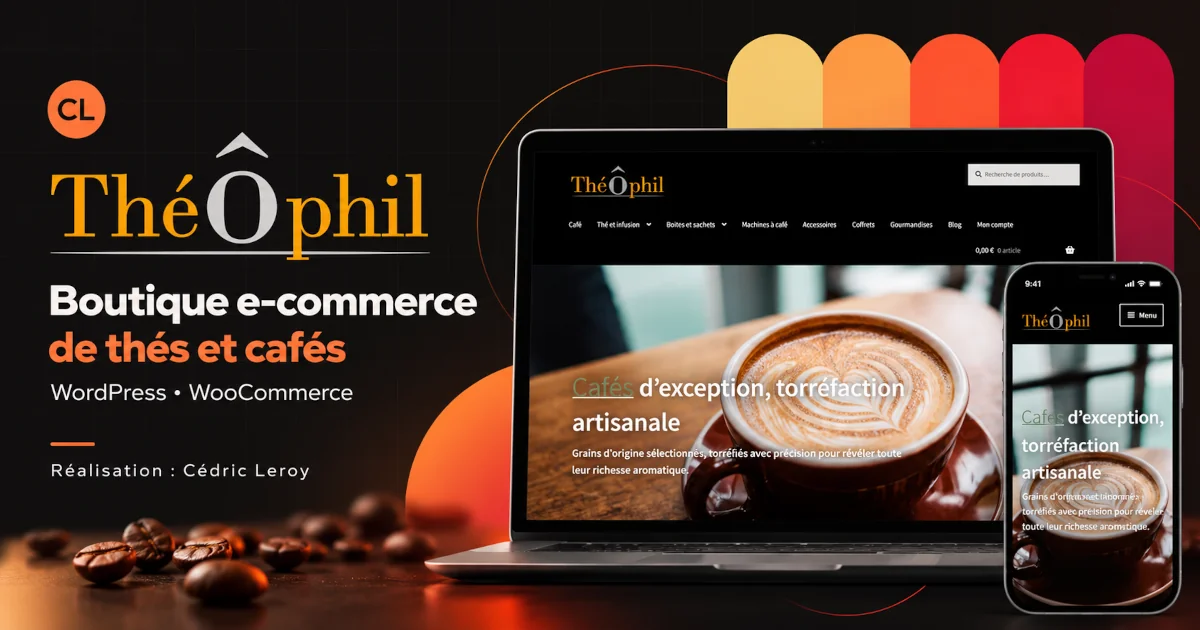
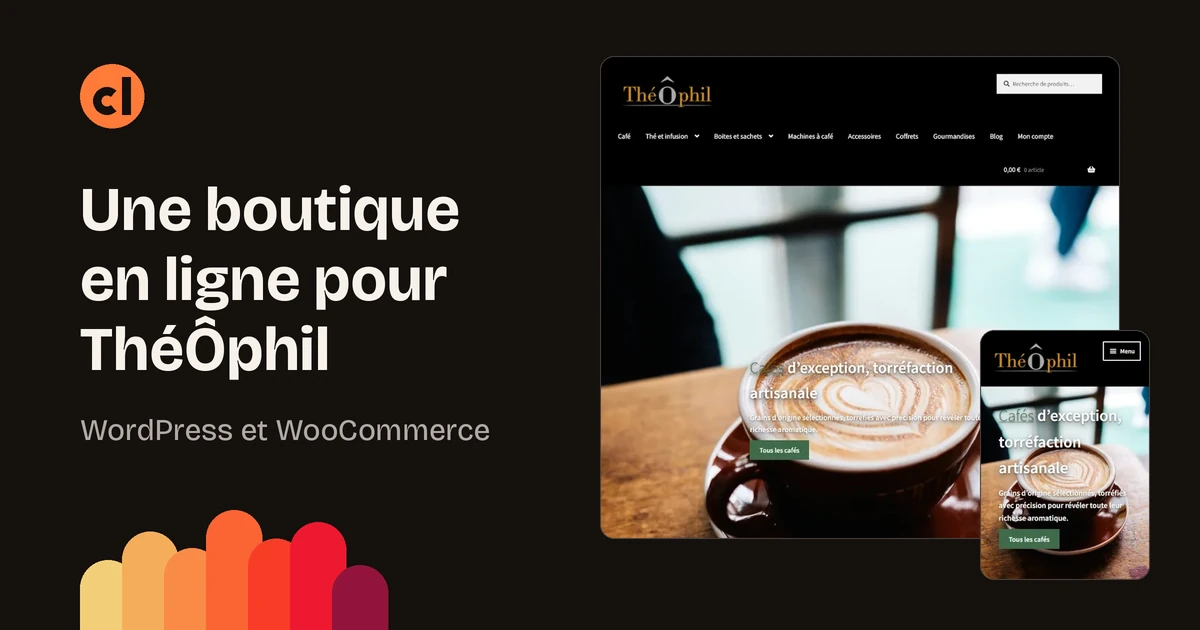
replacing og images

diff --git a/index.html b/index.html
@@ -4,7 +4,7 @@
 <head>
   <meta charset="utf-8">
   <meta name="viewport" content="width=device-width, initial-scale=1">
-  <meta name="theme-color" content="#0b0b0d">
+  <meta name="theme-color" content="#15100e">
 
   <title>Cédric Leroy — Développeur web freelance en Île-de-France</title>
 
